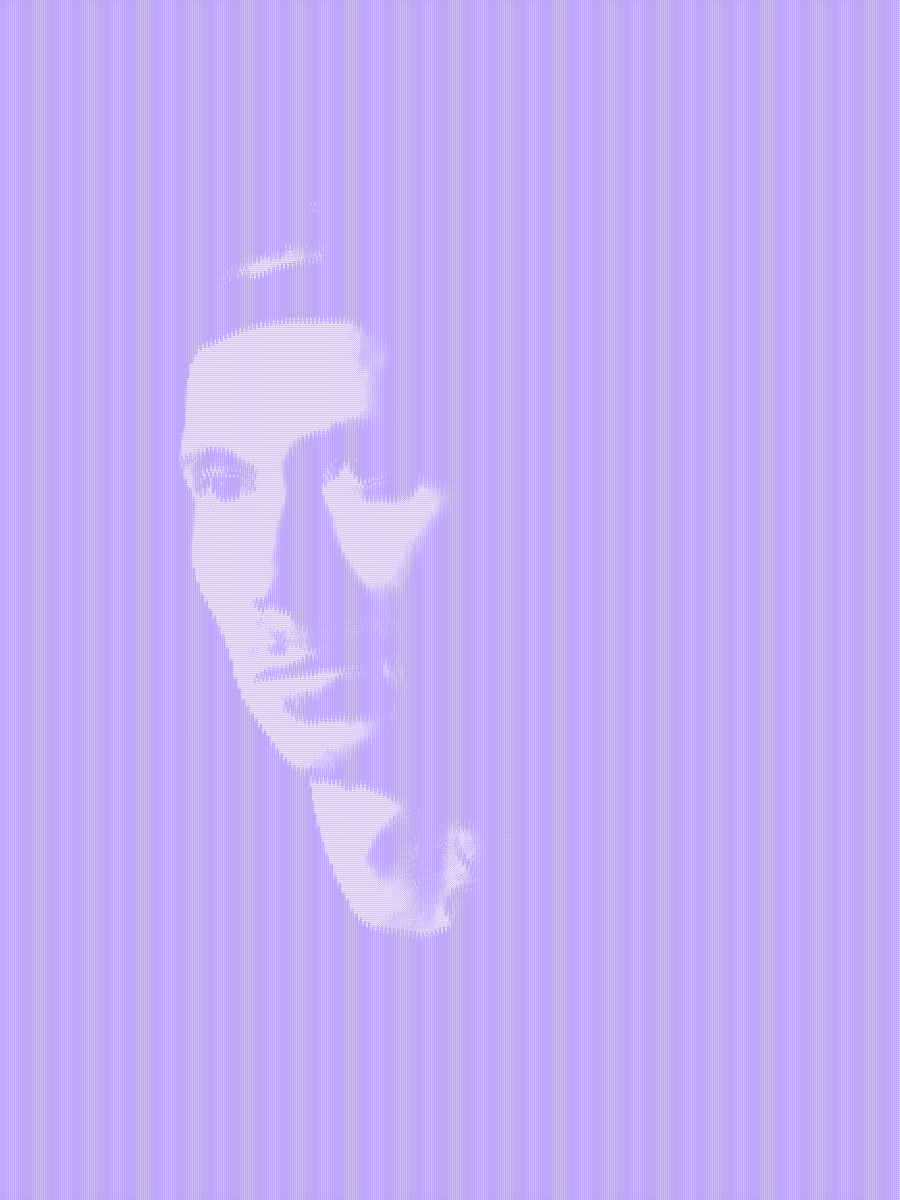
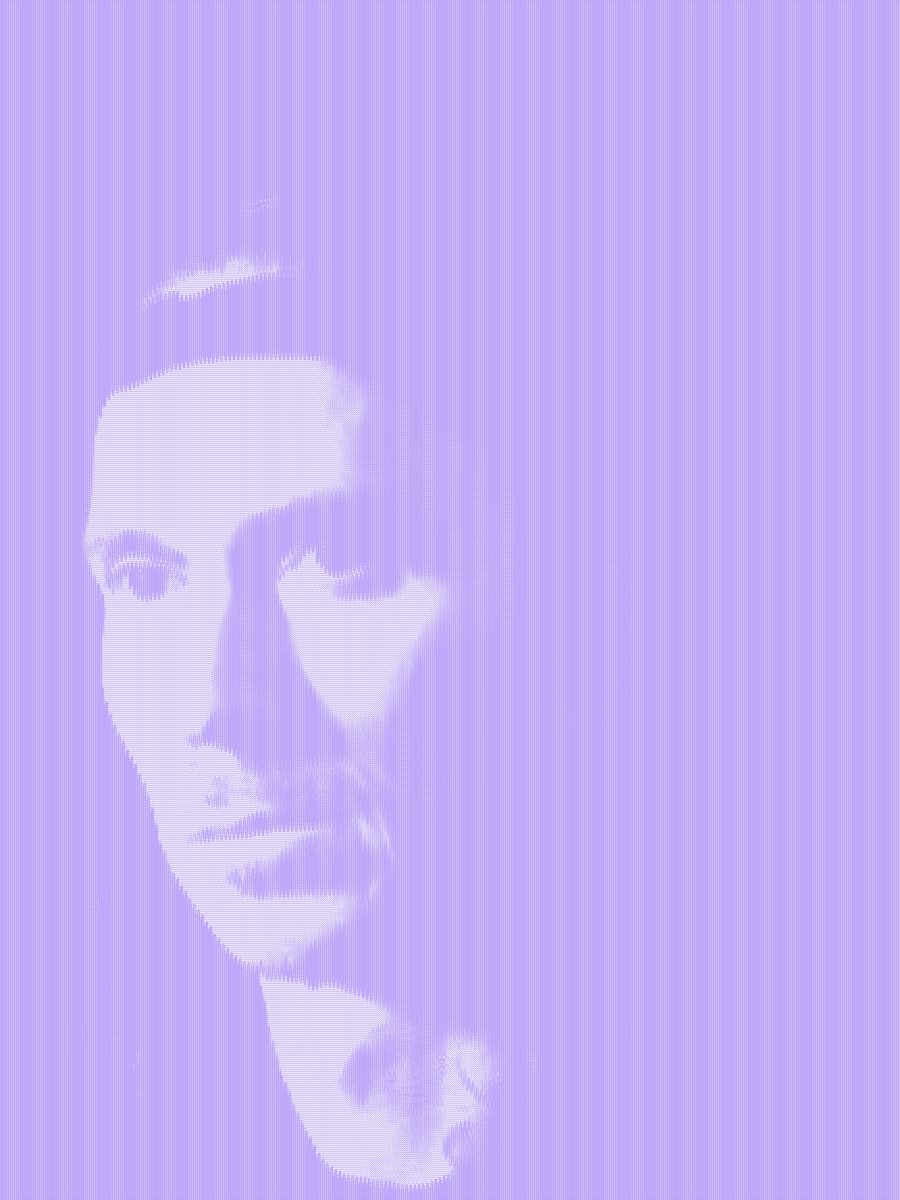
Replace faint Adam and Marcus portraits with readable sine-wave exports
Tighten the face crop and lift exposure so both portraits read as
clearly as Simon and Eric. Adam stays purple; Marcus uses official green.

Changed region(s): [[0.0933, 0.2158, 0.56, 1.0], [0.4978, 0.6783, 0.5289, 0.74], [0.3111, 0.185, 0.3422, 0.2158]]

diff --git a/scripts/export-portraits-client.ts b/scripts/export-portraits-client.ts
@@ -1,7 +1,5 @@
 import adamWhitcroft from "../src/assets/judges/adam-whitcroft.jpg";
-import ericThomas from "../src/assets/judges/eric-thomas.jpg";
 import marcusFarrell from "../src/assets/judges/marcus-farrell.jpg";
-import simonStern from "../src/assets/judges/simon-stern.jpg";
 import {
   DEFAULT_EFFECT_SETTINGS,
   renderSinePortrait,
@@ -10,31 +8,14 @@ import {
 
 const jobs = [
   {
-    file: "simon-stern-sinwave.png",
-    src: simonStern,
-    photoFit: "center 22%",
-    settings: {
-      ...DEFAULT_EFFECT_SETTINGS,
-      foregroundColor: "#ff6b35",
-      backgroundColor: "#ebe6e1",
-    } satisfies EffectSettings,
-  },
-  {
-    file: "eric-thomas-sinwave.png",
-    src: ericThomas,
-    photoFit: "center 20%",
-    settings: {
-      ...DEFAULT_EFFECT_SETTINGS,
-      foregroundColor: "#4ade80",
-      backgroundColor: "#e6f2ea",
-    } satisfies EffectSettings,
-  },
-  {
     file: "adam-whitcroft-sinwave.png",
     src: adamWhitcroft,
-    photoFit: "center 28%",
+    photoFit: "center 18%",
+    zoom: 1.35,
     settings: {
       ...DEFAULT_EFFECT_SETTINGS,
+      brightness: 2,
+      contrast: 1.85,
       foregroundColor: "#a78bfa",
       backgroundColor: "#efeaf5",
     } satisfies EffectSettings,
@@ -42,11 +23,14 @@ const jobs = [
   {
     file: "marcus-farrell-sinwave.png",
     src: marcusFarrell,
-    photoFit: "center 30%",
+    photoFit: "42% 22%",
+    zoom: 1.5,
     settings: {
       ...DEFAULT_EFFECT_SETTINGS,
-      foregroundColor: "#12b5a7",
-      backgroundColor: "#e6f4f3",
+      brightness: 18,
+      contrast: 1.5,
+      foregroundColor: "#4ade80",
+      backgroundColor: "#e6f2ea",
     } satisfies EffectSettings,
   },
 ];
@@ -61,7 +45,7 @@ async function loadImage(src: string): Promise<HTMLImageElement> {
 async function exportOne(job: (typeof jobs)[number]): Promise<void> {
   const img = await loadImage(job.src);
   const canvas = document.createElement("canvas");
-  renderSinePortrait(canvas, img, job.settings, job.photoFit);
+  renderSinePortrait(canvas, img, job.settings, job.photoFit, job.zoom);
   const blob = await new Promise<Blob>((resolve, reject) => {
     canvas.toBlob(value => (value ? resolve(value) : reject(new Error("toBlob failed"))), "image/png");
   });
@@ -76,4 +60,4 @@ for (const job of jobs) {
   await exportOne(job);
 }
 await fetch("/done", { method: "POST" });
-document.body.textContent = "Exported 4 portraits.";
+document.body.textContent = "Exported 2 portraits.";

diff --git a/src/sinePortrait.ts b/src/sinePortrait.ts
@@ -184,10 +184,11 @@ function coverDraw(
   width: number,
   height: number,
   photoFit: string,
+  zoom = 1,
 ): void {
   const srcW = img.naturalWidth || img.width;
   const srcH = img.naturalHeight || img.height;
-  const scale = Math.max(width / srcW, height / srcH);
+  const scale = Math.max(width / srcW, height / srcH) * Math.max(1, zoom);
   const drawW = srcW * scale;
   const drawH = srcH * scale;
   const origin = parseObjectPosition(photoFit);
@@ -206,6 +207,7 @@ function prepareSineWave(
   img: HTMLImageElement,
   settings: EffectSettings,
   photoFit: string,
+  zoom = 1,
 ): PreparedSineWave {
   const width = WORKING_WIDTH;
   const height = WORKING_HEIGHT;
@@ -215,7 +217,7 @@ function prepareSineWave(
   const probeCtx = probe.getContext("2d", { willReadFrequently: true });
   if (!probeCtx) throw new Error("Canvas 2D context unavailable");
 
-  coverDraw(probeCtx, img, width, height, photoFit);
+  coverDraw(probeCtx, img, width, height, photoFit, zoom);
   const data = probeCtx.getImageData(0, 0, width, height).data;
 
   const grayscale = new Float32Array(width * height);
@@ -325,8 +327,9 @@ export function renderSinePortrait(
   img: HTMLImageElement,
   settings: EffectSettings,
   photoFit = "center",
+  zoom = 1,
 ): void {
-  const prepared = prepareSineWave(img, settings, photoFit);
+  const prepared = prepareSineWave(img, settings, photoFit, zoom);
   canvas.width = prepared.width;
   canvas.height = prepared.height;
   const ctx = canvas.getContext("2d");

diff --git a/src/judges.test.ts b/src/judges.test.ts
@@ -35,12 +35,12 @@ test("portraits follow the Compile speakers color order", () => {
     "Orange",
     "Green",
     "Purple",
-    "Teal",
+    "Green",
   ]);
   expect(judges.map(judge => judge.foreground)).toEqual([
     "#ff6b35",
     "#4ade80",
     "#a78bfa",
-    "#12b5a7",
+    "#4ade80",
   ]);
 });

diff --git a/src/judges.ts b/src/judges.ts
@@ -46,9 +46,9 @@ export const judges = [
     handle: "@Dub",
     href: "https://x.com/farrellmarcus",
     photo: marcusFarrell,
-    preset: "Teal",
-    background: "#e6f4f3",
-    foreground: "#12b5a7",
+    preset: "Green",
+    background: "#e6f2ea",
+    foreground: "#4ade80",
   },
 ] as const;
 
